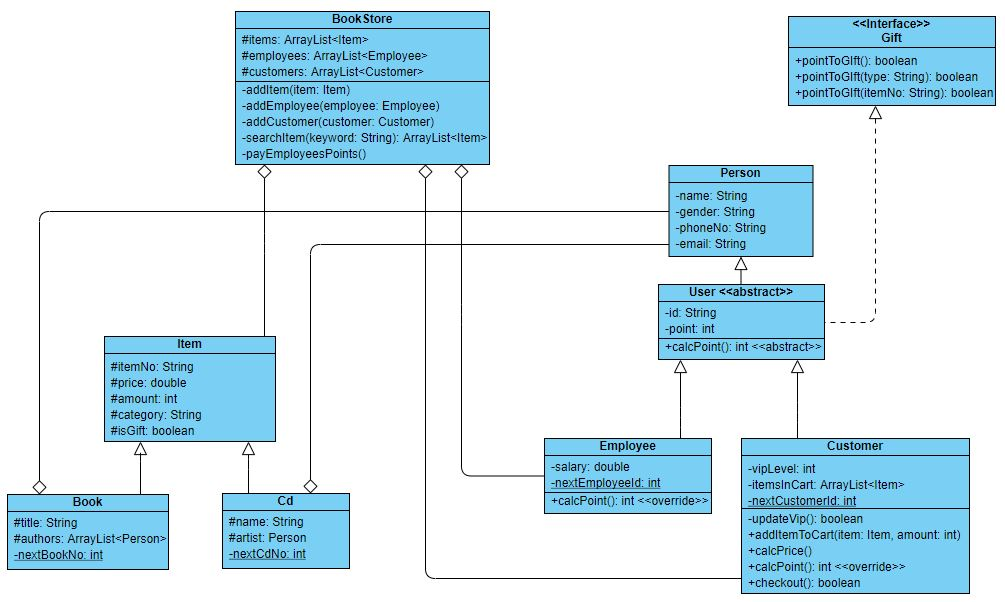
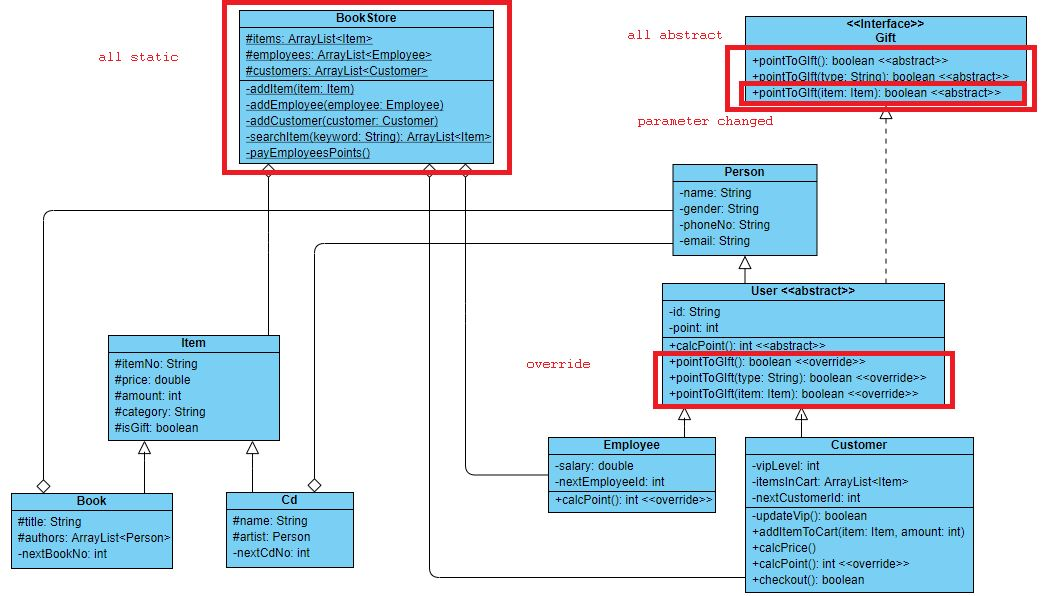
Modify project 01

diff --git a/Assignment/P2 - Project01.md b/Assignment/P2 - Project01.md
@@ -45,7 +45,7 @@ The bookstore requires a system with two hierarchies. (1) for the item, and (2) 
 2. Constructor with `itemNo`, `price`, `amount`, `category`, `isGift`
 3. Copy constructor
 4. `equals()` and `hashCode()`
-    * only consider `category` and `price`
+    * only consider `itemNo`, `category` and `price`
 5. `toString()`: **All** `toString()` methods should have the format like a table (like what we have in the class).
 6. Getters and setters
 
@@ -244,9 +244,9 @@ A customer or an employee can exchange points for a gift, but that gift can only
      1. decrease the `point` of the user by `70`
      2. decrease the amount of that item by one
      3. return `true`
-3.	`boolean pointToGift` method with `itemNo`: to find a specific gift 
+3.	`boolean pointToGift` method with `item`: to find a specific gift 
    * if the user does not have enough point, directly return `false`
-   * if the item with that specific `itemNo` cannot be used as a gift (`isGift` is `false`), return `false`
+   * if the item cannot be used as a gift (`isGift` is `false`), return `false`
    * else
      1. decrease the `point` of the user by `100`
      2. decrease the amount of that item by one
@@ -257,19 +257,12 @@ A customer or an employee can exchange points for a gift, but that gift can only
 ## 4 **BookStore class**
 The `BookStore` class is the System class, the previous two hierarchies will be used in this class.
 
-### 4.1 **Data members**
+### 4.1 **Static variables**
 1.	`ArrayList<Item> items`: the list of items in the store
 2.	`ArrayList<Employee> employees`: the list of employees in the store
 3.	`ArrayList<Customer> customers`: the list of customers in the store
 
-### 4.2 **Methods**
-1.	Default constructor
-    * initialize everything to be empty ArrayLists
-2.	Constructor with `items`, `employees` and `customers`
-    * initialize everything as the parameters
-3.	Copy constructor
-    * **deep copy** of all data members of another bookstore.
-
+### 4.2 **Static methods**
 4.	`addItem` method: to add an item into the `items` list. 
     * If the item already exists (using `equals()` in the `Item` class to compare), then update the `amount`
         * For example: there is an item `X` with amount 5, and you want to add an item `Y` with amount 3. By comparing `X` and `Y`, you found that they are the same. In this case, directly modify the `amount` of item `X` to 8 (5 + 3).

diff --git a/Lecture/4.1 ExceptionHandling.md b/Lecture/4.1 ExceptionHandling.md
@@ -1,0 +1,42 @@
+# 4.1 Exception Handling
+
+## 1. What is Exception Handling
+
+Usually when write some bad code, orally we would say there is an `error` in your code. However most of them are not really error, in fact, the name for them is `Exception`.
+
+`Error` and `Exception` are at the same level, both of them means there is something with your code. However, `error` is more serious than `exception`
+
+`Error` relates to something very serious, such as memory leaking 
+
+`Exception` it is something less serious, which could be fixed on the programmer side.
+
+
+
+In Java, both `error` and `exception` are defined as classes, and both of them belong to the same hierarchy 
+
+
+
+
+
+## 2. Checked VS Unchecked
+
+A `checked exception` is an exception Java will pre-detect it and you have to prepare a solution for it, if not, Java will not allow you to execute the code. 
+
+while `unchecked exception` is an exception Java will pre-detect it, so you don't have to prepare a solution for it, and you can directly execute the code. 
+
+`Error` and `Runtime exception` are both `unchecked`, while all other exceptions are `checked`  
+
+
+
+## 3. Default Handler
+
+When an exception / error is thrown, Java needs to handle the exception / error by using a `handler`, handler is a piece of code to respond the problem.
+
+Java has a default exception handler, which is a pre-defined piece of code that will handle whatever exception, if programmers does not provide a specific one.
+
+Java default exception handler will do few things: 
+
+1. prints `Error` or `Exception`, with the name, message (additional information)
+2. prints the `stacktrace` of the error or exception
+3. stops the execution
+
